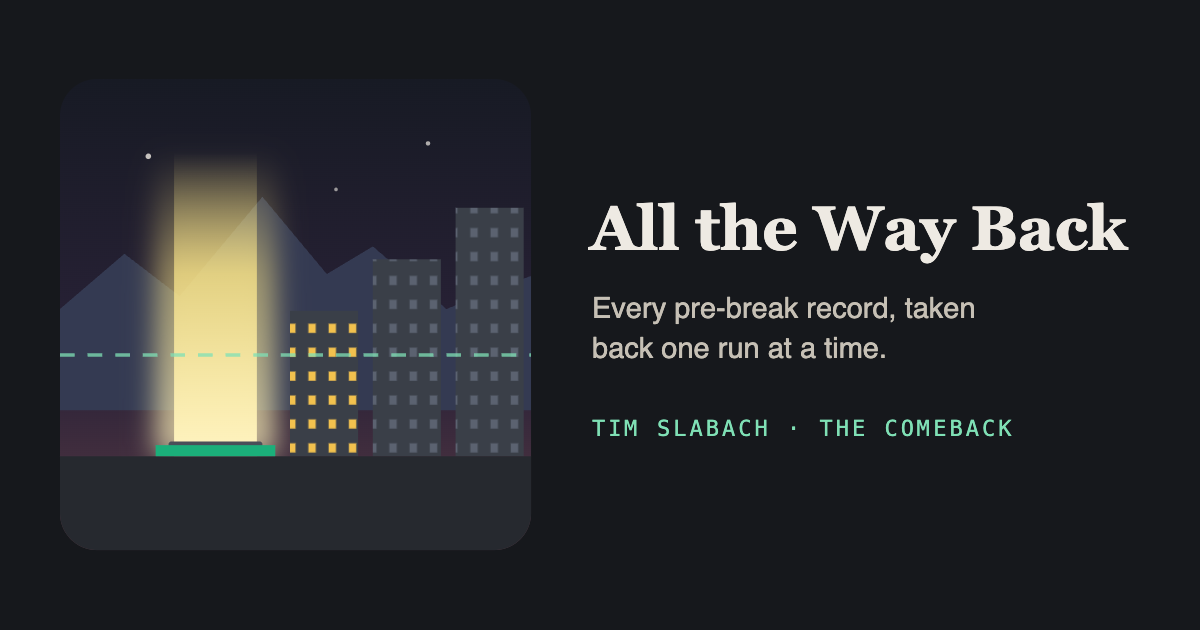
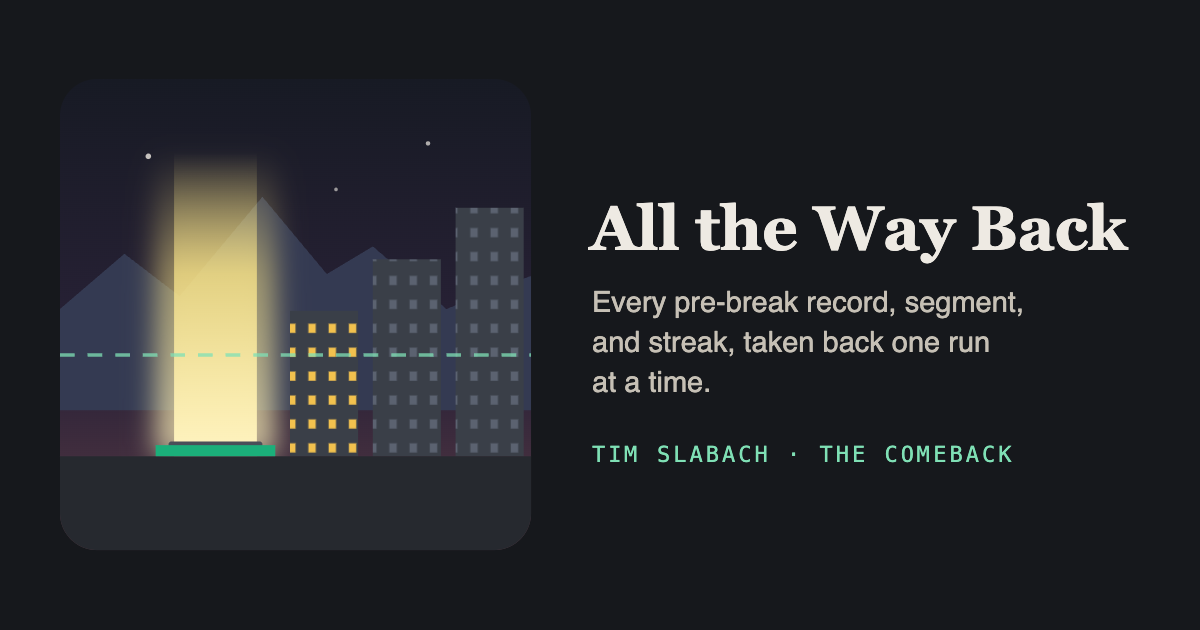
Tagline: every pre-break record, segment, and streak

Changed region(s): [[0.4933, 0.4524, 0.8633, 0.6333], [0.6783, 0.6635, 0.8633, 0.754], [0.4933, 0.6635, 0.6475, 0.754]]

diff --git a/index.html b/index.html
@@ -4,7 +4,7 @@
 <meta charset="utf-8">
 <meta name="viewport" content="width=device-width, initial-scale=1, viewport-fit=cover">
 <title>All the Way Back</title>
-<meta name="description" content="Every pre-break record, taken back one run at a time.">
+<meta name="description" content="Every pre-break record, segment, and streak, taken back one run at a time.">
 <meta name="theme-color" content="#16181c">
 <meta name="apple-mobile-web-app-capable" content="yes">
 <meta name="mobile-web-app-capable" content="yes">
@@ -14,7 +14,7 @@
 <link rel="icon" type="image/png" sizes="32x32" href="icon-32.png">
 <link rel="manifest" href="site.webmanifest">
 <meta property="og:title" content="All the Way Back">
-<meta property="og:description" content="Every pre-break record, taken back one run at a time.">
+<meta property="og:description" content="Every pre-break record, segment, and streak, taken back one run at a time.">
 <meta property="og:image" content="https://timfslabach.github.io/all-the-way-back/og.png">
 <meta property="og:image:width" content="1200">
 <meta property="og:image:height" content="630">
@@ -55,7 +55,7 @@ a.go{display:inline-flex;align-items:center;justify-content:center;min-height:48
   <line x1="0" x2="512" y1="300" y2="300" stroke="#7fe0b5" stroke-width="4" stroke-dasharray="16 14" opacity=".75"/>
 </svg>
   <h1>All the Way Back</h1>
-  <p>Every pre-break record, taken back one run at a time.</p>
+  <p>Every pre-break record, segment, and streak, taken back one run at a time.</p>
   <a class="go" id="go" href="https://script.google.com/macros/s/AKfycbyMyI9Umo7srKtXNNq2Ftxn0RX61SYXcWc4hzgD9nL675t4JBwlg_AeZus1T-CqIEHfvA/exec">Open</a>
   <p class="tip" id="tip" hidden>To put it on your home screen: tap Share, then <b>Add to Home Screen</b>. After that the icon opens straight into the app.</p>
 </main>
